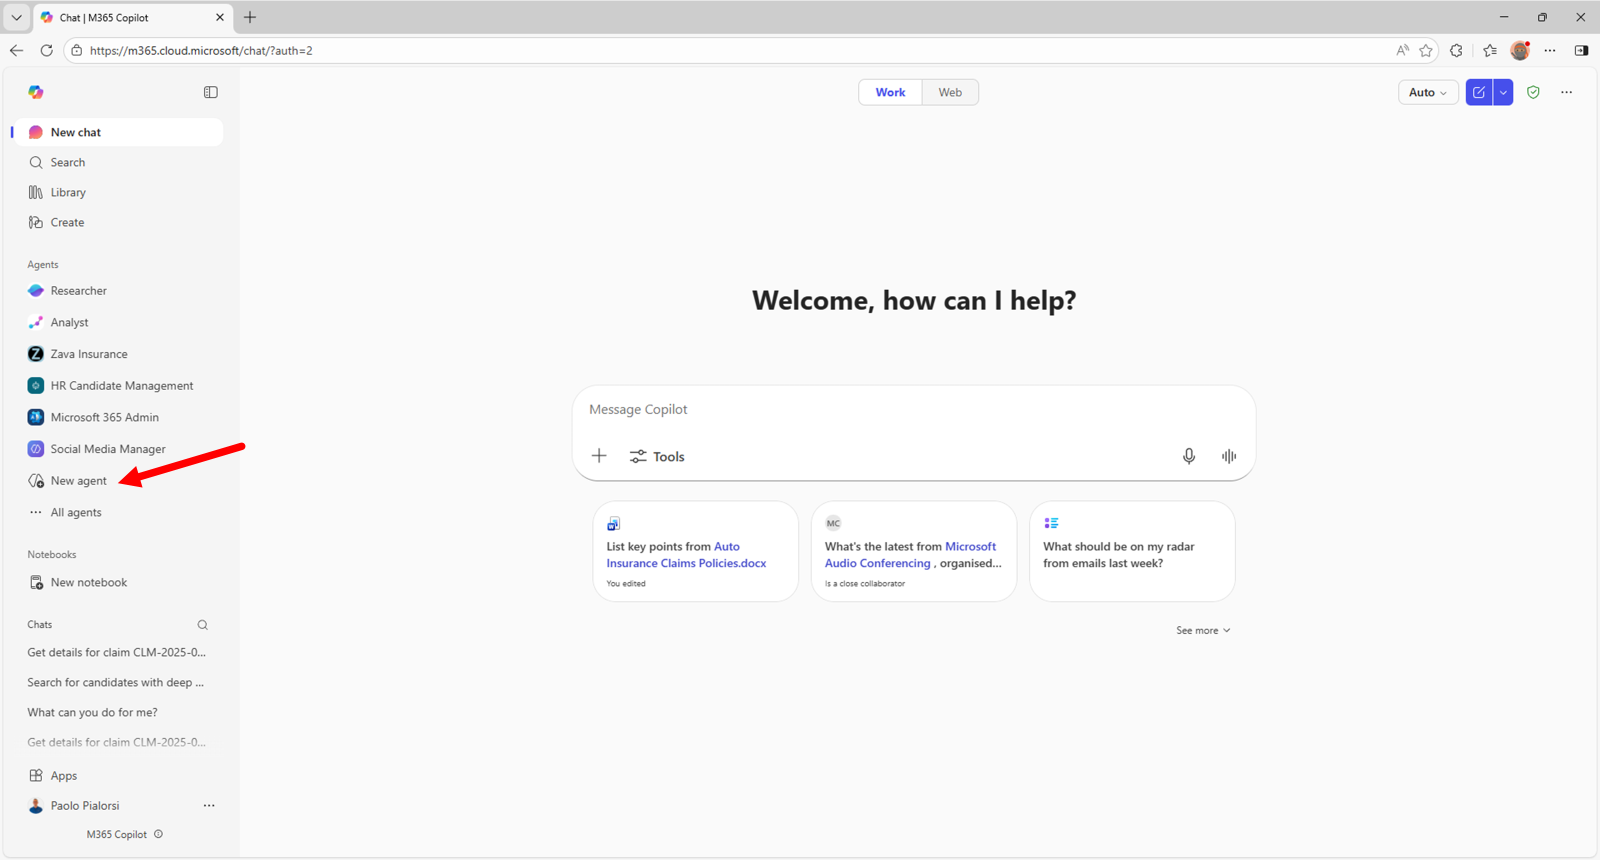
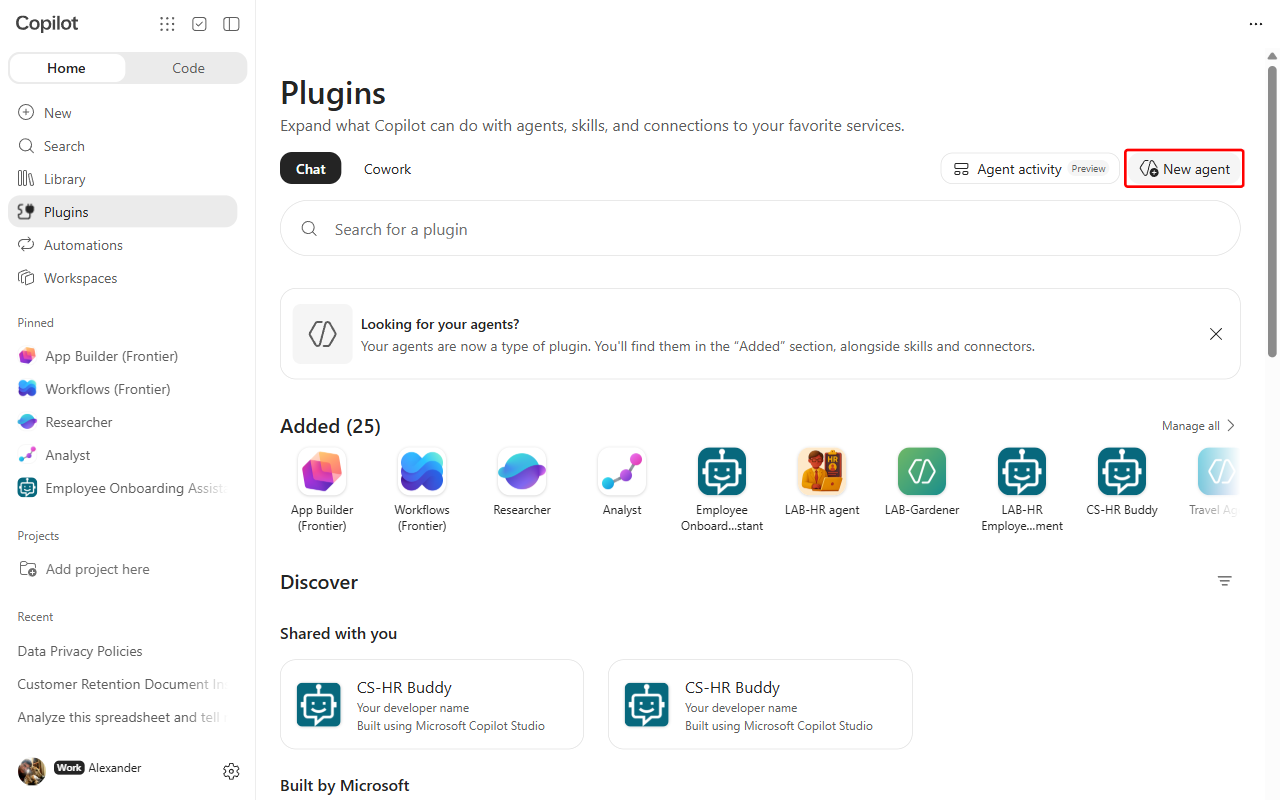
fix(labs): re-run module 01 Agent Builder lab with 1280-wide screenshots
All screenshots retaken at 1280 width from a live re-run, the GIF replaced
by a still, two new shots for the SharePoint source and the Share menu, and
the guide steps and image texts matched to the current Agent Builder UI.

Claude-Session: https://claude.ai/code/session_01DmZdEondAZzFPPQzi7Zjqu

diff --git a/labs/01-intro/lab-01-agent-builder.md b/labs/01-intro/lab-01-agent-builder.md
@@ -2,7 +2,7 @@
 
 In this lab you build a declarative agent for Microsoft 365 Copilot with Agent Builder. The agent, called **Gardener**, helps users maintain and improve a home garden, and it can play a game that asks users to guess the name of a plant or flower from clues. Agent Builder is the easiest way to make a personal agent for Microsoft 365 Copilot, because the agent runs on the same orchestrator, foundation model and security controls as Microsoft 365 Copilot.
 
-![The Gardener agent in Microsoft 365 Copilot Chat, with a few guesses from the user and the agent's replies.](./_images/lab-01-agent-builder-01.gif)
+![The Gardener agent in Microsoft 365 Copilot Chat after the user guessed a plant, opening the next round of the game.](./_images/lab-01-agent-builder-01.png)
 
 In this lab you learn:
 
@@ -21,7 +21,7 @@ In this exercise you create the Gardener agent from a natural language descripti
 
 Open the [Microsoft 365 Copilot chat home page](https://www.microsoft365.com/copilot), select **Plugins** in the left side panel, open the **Chat** tab, and select **New agent** in the upper right corner. **Agent Builder** opens with the prompt box **Message Agent Builder**.
 
-![The earlier Microsoft 365 Copilot Chat with the New agent command in the left side panel.](./_images/lab-01-agent-builder-02.png)
+![The Plugins page of Microsoft 365 Copilot Chat on the Chat tab, with New agent highlighted in the upper right corner.](./_images/lab-01-agent-builder-02.png)
 
 Agent Builder opens and you can start defining the custom agent. You can choose a template to start from, or you can describe the agent in natural language. You can also select the **Configure** option to set up the agent by hand, but you do that later in this lab. Provide the following initial description:
 
@@ -30,15 +30,15 @@ You are an expert gardener and you help users to maintain and improve their home
 providing detailed instructions and advice about the best practices for home gardening.
 ```
 
-![Agent Builder with a textbox at the lower left for instructions to the builder, and a preview of the agent on the right.](./_images/lab-01-agent-builder-03.png)
+![Agent Builder with the conversation and the Message Agent Builder box on the left, and the drafted agent's name, description and instructions on the right.](./_images/lab-01-agent-builder-03.png)
 
-Agent Builder does not always ask for the name or for refinements, so give the name in your first message: add the sentence `Name the agent Gardener.` to the description above. While you talk with Agent Builder, the preview on the right side shows the agent itself, including suggested conversation starters. Send the following refinement as one message, with the send arrow (pressing Enter in a follow-up message does not send it).
+Agent Builder does not always ask for the name or for refinements, so give the name in your first message: add the sentence `Name the agent Gardener.` to the description above. While you talk with Agent Builder, the right side shows the agent's configuration as Agent Builder drafts it: name, description and instructions. Send the following refinement as one message, with the send arrow (pressing Enter in a follow-up message does not send it).
 
 ```text
 Suggest ways to keep plants and flowers shining and gorgeous
 ```
 
-![Agent Builder with the conversation on the lower left and the agent preview on the right.](./_images/lab-01-agent-builder-04.png)
+![Agent Builder answering the refinement that the agent already covers the request, with the configuration on the right.](./_images/lab-01-agent-builder-04.png)
 
 Keep interacting with Agent Builder until it has all the information it needs to create the agent. If Agent Builder asks what should be emphasized, provide the following text.
 
@@ -47,7 +47,7 @@ Highlight the importance of nature and plants/flowers to be present in every hou
 Use a professional, yet friendly, tone.
 ```
 
-Say that you have no further refinements, then select the **Create** button in the upper right corner of the screen.
+When the configuration on the right shows the agent you described, select **Create** in the upper right corner of the screen.
 
 ![Agent Builder with the Create button in the upper right corner highlighted.](./_images/lab-01-agent-builder-05.png)
 
@@ -55,17 +55,17 @@ Agent Builder creates the new agent from the instructions you provided.
 
 ### Step 2: Test the agent
 
-When the agent is ready, the dialog **Your agent was created successfully!** shows the commands **Start chat** and **Share**.
+When the agent is ready, the dialog **Your agent was created successfully!** says the agent is private and only available to you, and shows the commands **Share** and **Start chat**.
 
-![The dialog confirming the new Gardener agent, with a command to go to the agent and a command to share it.](./_images/lab-01-agent-builder-06.png)
+![The dialog confirming the new agent, with Share and the highlighted Start chat.](./_images/lab-01-agent-builder-06.png)
 
 Select **Start chat**. The user experience of the new agent opens.
 
-![The Gardener agent with its name at the top, a set of generated conversation starters, and a textbox for a new prompt.](./_images/lab-01-agent-builder-07.png)
+![The new agent's start page with its name and creator, the message box, and generated suggested prompts below it.](./_images/lab-01-agent-builder-07.png)
 
 Select the first suggested prompt, which fills the prompt box, then send it and observe the response from the agent. Your agent is now ready.
 
-![The Gardener agent answering the first suggested prompt, with the list of available agents and recent chats on the right.](./_images/lab-01-agent-builder-08.png)
+![The agent answering the first suggested prompt.](./_images/lab-01-agent-builder-08.png)
 
 ## Exercise 2: Customize the agent
 
@@ -73,11 +73,11 @@ In this exercise you add a custom icon to the agent and define the rules of the 
 
 Select **Plugins** in the left side panel and open the **Chat** tab (the page remembers the last tab you used). Select **Manage all**, then **More options** beside **Gardener**, and select **Edit** to configure the agent.
 
-![Agent Builder when editing an existing agent, with the Edit command in the contextual menu of the agent.](./_images/lab-01-agent-builder-09.png)
+![The Manage all list of agents with the More options menu of the agent open and Edit highlighted.](./_images/lab-01-agent-builder-09.png)
 
 A new page with all the settings of your agent opens.
 
-![The agent settings page in Agent Builder, with an Update command in the upper right corner.](./_images/lab-01-agent-builder-10.png)
+![The agent settings page in Agent Builder, with the Update button highlighted in the upper right corner.](./_images/lab-01-agent-builder-10.png)
 
 ### Step 1: Provide a custom icon
 
@@ -88,16 +88,16 @@ The dialog starts with the **Configure** panel active. The descriptions you prov
 - **Description**: the description of the agent
 - **Instructions**: the system prompt for the agent, where you define the system role and the behavioral rules
 - **Knowledge**: configures the knowledge bases for the agent
-- **Capabilities**: enables capabilities such as code interpreting and image generation
+- **Skills**: adds skills that specialize the agent
 - **Suggested prompts**: configures up to 6 suggested prompts for the agent
 
 Select the edit button beside the default icon of the agent.
 
-A dialog opens where you can change the icon and the background color of the icon. The dialog has the tabs **Generate**, **Browse** and **Upload**. On **Upload**, you can use the [sample icon](./lab-01-agent-builder/color.png) as the custom icon. You can also set the background color to the RGB value #F1F1F1.
+A dialog opens where you can change the icon and the background color of the icon. The dialog has the tabs **Generate**, **Browse** and **Upload**. On **Upload**, you can use the [sample icon](./lab-01-agent-builder/color.png) as the custom icon. You can also select **Set accent color** and type `#F1F1F1` in **Hex**.
 
-![The dialog to update the icon and background color of the agent, with a button to upload an icon and a button to set the background color. Save and cancel buttons are in the lower right corner.](./_images/lab-01-agent-builder-11.png)
+![The icon dialog on the Upload tab with the uploaded icon, Set accent color above the upload area, and Apply highlighted beside Close.](./_images/lab-01-agent-builder-11.png)
 
-Select **Apply** when you are done, then **Close**.
+Select **Apply** when you are done; the dialog closes by itself.
 
 ### Step 2: Define the guess plant/flower game rules
 
@@ -123,11 +123,11 @@ on a set of clues. Always end every answer with a sentence to engage the user to
 game or another round of the game.
 ```
 
-![The agent settings dialog with the updated instructions and the Update button highlighted.](./_images/lab-01-agent-builder-12.png)
+![The agent settings page with the updated instructions and the Update button highlighted.](./_images/lab-01-agent-builder-12.png)
 
 Select the **Update** button in the upper right corner of the configuration dialog. The update takes a while. When the dialog **Your agent was updated successfully!** appears, select **Start chat** and send the agent a request. The agent engages you in the game.
 
-![The updated Gardener agent with its new icon and the closing sentence that invites the user to play the game.](./_images/lab-01-agent-builder-13.png)
+![The updated agent answering a watering question and closing with an invitation to the plant guessing game.](./_images/lab-01-agent-builder-13.png)
 
 The following sample conversation shows the agent while guessing the name of a plant.
 
@@ -154,11 +154,15 @@ Copy the absolute URL of the site, for example `https://xyz.sharepoint.com/sites
 
 ### Step 2: Add support for SharePoint Online documents
 
-Go back to the list of agents, edit the **Gardener** agent, and scroll to the **Knowledge** section of the configuration. Under **Knowledge**, select **Cloud files** > **Add cloud file source**, paste the URL of the SharePoint Online site and press **ENTER**, or select the suggested site collection. You can also select the **Sites** button and search for the site in your tenant.
+Go back to the list of agents, edit the **Gardener** agent, and scroll to the **Knowledge** section of the configuration. Under **Knowledge**, point at the **Cloud files** row and select the cloud button that appears on its right (**Add cloud file source**), paste the URL of the SharePoint Online site and press **ENTER**, or select the suggested site collection. You can also select the **Sites** button and search for the site in your tenant.
 
-![The agent configuration dialog with the Knowledge section and the SharePoint URL field highlighted.](./_images/lab-01-agent-builder-15.png)
+![The Knowledge section of the configuration page with the SharePoint URL field highlighted and the site suggested below it.](./_images/lab-01-agent-builder-15.png)
 
-The new SharePoint site appears in the list of knowledge bases for the **Gardener** agent. Select **Update** and interact with the agent again. The answers are more specialized because they draw on the knowledge base you provided. A new site can take several minutes until search indexes its files; if the answers cite none of the documents, wait and ask again in a new chat.
+The new SharePoint site appears under **Cloud files** > **SharePoint (1)** in the knowledge of the **Gardener** agent.
+
+![The Cloud files source with SharePoint (1) expanded and the added site highlighted.](./_images/lab-01-agent-builder-15b.png)
+
+Select **Update** and interact with the agent again. The answers are more specialized because they draw on the knowledge base you provided. A new site can take several minutes until search indexes its files; if the answers cite none of the documents, wait and ask again in a new chat.
 
 ## Exercise 4: Add finishing touches to the agent
 
@@ -168,7 +172,7 @@ In this exercise you enable image generation for the **Gardener** agent and shar
 
 Image generation is on by default in Agent Builder, so there is no **Capabilities** option to enable any more.
 
-![The earlier agent configuration dialog with the Capabilities section and the Create images option.](./_images/lab-01-agent-builder-16.png)
+![The end of the configuration page with the knowledge sources, Attachments and Suggested prompts, and no Capabilities section.](./_images/lab-01-agent-builder-16.png)
 
 Select **Start chat** and provide the following prompt.
 
@@ -182,14 +186,16 @@ The agent answers with a generated image of red roses.
 
 ### Step 2: Share the agent
 
-Edit the agent one last time. In the upper right corner, next to the **Update** button, select **Share**.
+Edit the agent one last time. In the upper right corner, select **...** (More options) beside **Update**, then **Share**.
+
+![The More options menu beside Update with Share highlighted.](./_images/lab-01-agent-builder-18a.png)
 
 The dialog **Share "Gardener"** opens. Enter a colleague in **Add a name, group, or email**, or turn on **Org-wide sharing for chat access** to share with everyone in your organization; your own row shows **Can edit**. Select **Copy chat link** and give the link to the users you shared the agent with.
 
-![The earlier sharing panel with the options Anyone in your organization, Specific users in your organization through security groups, and Only you, plus a Save button and the agent URL.](./_images/lab-01-agent-builder-18.png)
+![The Share dialog with the name box, Org-wide sharing for chat access, your own row with Can edit, and Copy chat link highlighted beside Cancel.](./_images/lab-01-agent-builder-18.png)
 
 ## Resources
 
-- [Declarative agents](https://learn.microsoft.com/en-us/microsoft-365-copilot/extensibility/overview-declarative-copilot){target=_blank}
-- [Build agents with Agent Builder](https://learn.microsoft.com/en-us/microsoft-365-copilot/extensibility/copilot-studio-agent-builder-build){target=_blank}
-- [Publish and manage Agent Builder agents](https://learn.microsoft.com/en-us/microsoft-365-copilot/extensibility/copilot-studio-agent-builder-publish){target=_blank}
+- [Declarative agents](https://learn.microsoft.com/en-us/microsoft-365-copilot/extensibility/overview-declarative-copilot)
+- [Build agents with Agent Builder](https://learn.microsoft.com/en-us/microsoft-365-copilot/extensibility/copilot-studio-agent-builder-build)
+- [Publish and manage Agent Builder agents](https://learn.microsoft.com/en-us/microsoft-365-copilot/extensibility/copilot-studio-agent-builder-publish)

diff --git a/CHANGELOG.md b/CHANGELOG.md
@@ -24,3 +24,7 @@
 
 - Module 02 deck slide 20 (Anatomy of a SKILL.md) drops the companion-files picture and splits 50:50, bullets left and the SKILL.md code right.
 - Exclude all pptx folders and the assets folder from git: `.gitignore` ignores `pptx/` and `/assets/`, and their files stay on disk
+
+### Fixed
+
+- Module 01 Agent Builder lab re-run: all screenshots retaken at 1280 width, two new ones for the SharePoint source and the Share menu, and the guide steps and image texts matched to the current UI
